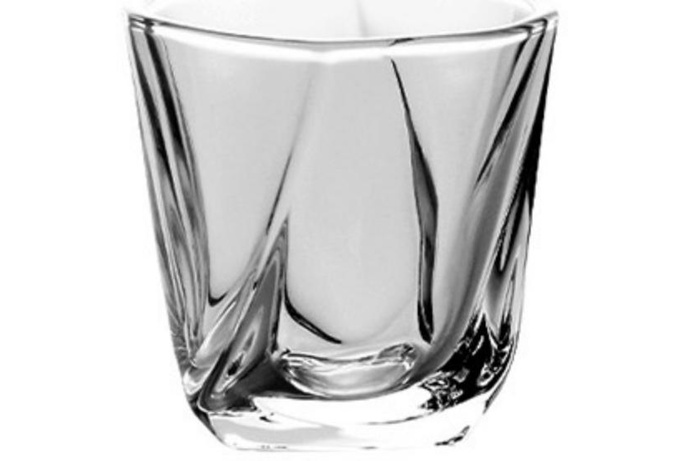
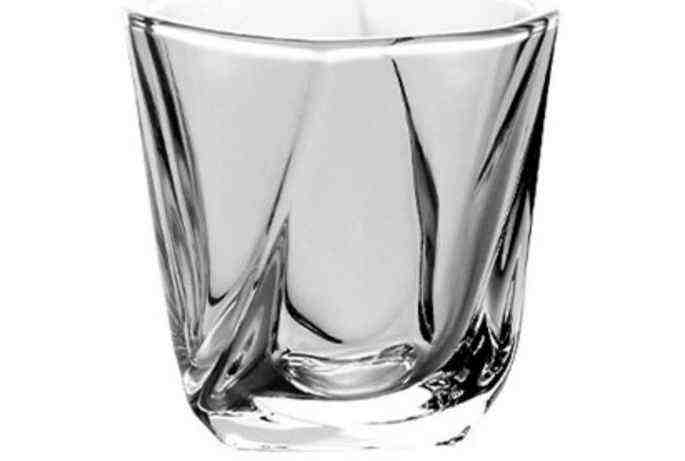
A

diff --git a/products_data.js b/products_data.js
@@ -5908,6 +5908,356 @@ const PRODUCTS = [
     "department": "Glassware",
     "moq": 4,
     "status": "In Stock"
+  },
+  {
+    "code": "SMTC277",
+    "desc": "SHINEMAX TEA MUG 140ML COLOR BOX PACKING 12 SET IN CTN",
+    "price": "178.0",
+    "unit": "FOR 6 PCS",
+    "category": "TEA MUG",
+    "department": "Glassware",
+    "moq": 4,
+    "status": "ADV BOOK"
+  },
+  {
+    "code": "SMP021A-L6",
+    "desc": "SHINEMAX SNACK PLATES 6 PCS GIFT BOX PACKING 8 SET IN CTN",
+    "price": "320.0",
+    "unit": "FOR 6 PCS",
+    "category": "PLATES",
+    "department": "Glassware",
+    "moq": 4,
+    "status": "ADV BOOK"
+  },
+  {
+    "code": "SMP021B-L6",
+    "desc": "SHINEMAX SNACK PLATES 6 PCS GIFT BOX PACKING 8 SET IN CTN",
+    "price": "320.0",
+    "unit": "FOR 6 PCS",
+    "category": "PLATES",
+    "department": "Glassware",
+    "moq": 4,
+    "status": "ADV BOOK"
+  },
+  {
+    "code": "SMP021D-L6",
+    "desc": "SHINEMAX SNACK PLATES 6 PCS GIFT BOX PACKING 8 SET IN CTN",
+    "price": "320.0",
+    "unit": "FOR 6 PCS",
+    "category": "PLATES",
+    "department": "Glassware",
+    "moq": 4,
+    "status": "ADV BOOK"
+  },
+  {
+    "code": "LXY4012",
+    "desc": "LANG XU PLAZA WATER GLASS 6 PCS COLOR BOX PACKING 12 SET CTN",
+    "price": "300.0",
+    "unit": "FOR 6 PCS",
+    "category": "WATER GLASS",
+    "department": "Glassware",
+    "moq": 4,
+    "status": "ADV BOOK"
+  },
+  {
+    "code": "LXY4008-1",
+    "desc": "LANGXU PLAZA WHISKEY GLASS 260 ML 6 PC COL BOX 12 SET CTN",
+    "price": "300.0",
+    "unit": "FOR 6PCS",
+    "category": "WHISKEY GLASS",
+    "department": "Glassware",
+    "moq": 4,
+    "status": "ADV BOOK"
+  },
+  {
+    "code": "SMWB1031-1000",
+    "desc": "SHINEMAX BOROSILICATE GLASS WATER BOTTLE 1000 ML COL BOX 24 PCS CTN",
+    "price": "230.0",
+    "unit": "FOR 1 PCS",
+    "category": "GLASS BOTTLES",
+    "department": "Glassware",
+    "moq": 6,
+    "status": "ADV BOOK"
+  },
+  {
+    "code": "SMWB1036-1000",
+    "desc": "SHINEMAX GLASS BOTTLE PUSH CAP 1000 ML COLOR BOX 30 PCS CTN",
+    "price": "180.0",
+    "unit": "FOR 1 PCS",
+    "category": "GLASS BOTTLES",
+    "department": "Glassware",
+    "moq": 12,
+    "status": "ADV BOOK"
+  },
+  {
+    "code": "SMBC20-L1",
+    "desc": "SHINE MAX GLASS SIPPER WOODEN LID 540 ML COL BOX 48 PC CTN",
+    "price": "110.0",
+    "unit": "FOR 1PCS",
+    "category": "SIPPER",
+    "department": "Glassware",
+    "moq": 12,
+    "status": "ADV BOOK"
+  },
+  {
+    "code": "KJG061A",
+    "desc": "KARBON JUG 500 ML COLOR BOX PACKING 24 SET CTN",
+    "price": "90.0",
+    "unit": "FOR 1 PCS",
+    "category": "GLASS JUG",
+    "department": "Glassware",
+    "moq": 12,
+    "status": "ADV BOOK"
+  },
+  {
+    "code": "KJG061B",
+    "desc": "KARBON JUG 500 ML COLOR BOX PACKING 24 SET CTN",
+    "price": "90.0",
+    "unit": "FOR 1 PCS",
+    "category": "GLASS JUG",
+    "department": "Glassware",
+    "moq": 12,
+    "status": "ADV BOOK"
+  },
+  {
+    "code": "KJG062A",
+    "desc": "KARBON JUG 500 ML COLOR BOX PACKING 24 SET CTN",
+    "price": "90.0",
+    "unit": "FOR 1 PCS",
+    "category": "GLASS JUG",
+    "department": "Glassware",
+    "moq": 12,
+    "status": "ADV BOOK"
+  },
+  {
+    "code": "KJG062B",
+    "desc": "KARBON JUG 500 ML COLOR BOX PACKING 24 SET CTN",
+    "price": "90.0",
+    "unit": "FOR 1 PCS",
+    "category": "GLASS JUG",
+    "department": "Glassware",
+    "moq": 12,
+    "status": "ADV BOOK"
+  },
+  {
+    "code": "SMBC18-L1",
+    "desc": "SHINE MAX GLASS SIPPER 380 ML - COL BOX-72 PCS CTN",
+    "price": "100.0",
+    "unit": "FOR 1PCS",
+    "category": "SIPPER",
+    "department": "Glassware",
+    "moq": 12,
+    "status": "ADV BOOK"
+  },
+  {
+    "code": "SMTC247-2A",
+    "desc": "SHINEMAX SMALL TEA MUG 90ML COLOR BOX-24 SETS IN CTN",
+    "price": "130.0",
+    "unit": "FOR 6PCS",
+    "category": "TEA MUG",
+    "department": "Glassware",
+    "moq": 12,
+    "status": "ADV BOOK"
+  },
+  {
+    "code": "SMTC247-2B",
+    "desc": "SHINEMAX SMALL TEA MUG 90ML COLOR BOX-24 SETS IN CTN",
+    "price": "130.0",
+    "unit": "FOR 6PCS",
+    "category": "TEA MUG",
+    "department": "Glassware",
+    "moq": 12,
+    "status": "ADV BOOK"
+  },
+  {
+    "code": "SMTC247-2C",
+    "desc": "SHINEMAX SMALL TEA MUG 90ML COLOR BOX-24 SETS IN CTN",
+    "price": "130.0",
+    "unit": "FOR 6PCS",
+    "category": "TEA MUG",
+    "department": "Glassware",
+    "moq": 12,
+    "status": "ADV BOOK"
+  },
+  {
+    "code": "SMBB02-3600-BE",
+    "desc": "SHINE MAX DISPENSER PRINTED 3600 ML WITH STAND 12 SET CTN",
+    "price": "750.0",
+    "unit": "FOR 1 PCS",
+    "category": "DISPENSER",
+    "department": "Glassware",
+    "moq": 4,
+    "status": "ADV BOOK"
+  },
+  {
+    "code": "SMBC47",
+    "desc": "SHINEMAX DOUBLE WALL MILK MUG 400 ML COL BOX 60 PCS CTN",
+    "price": "130.0",
+    "unit": "FOR 1 PCS",
+    "category": "BEER MUG",
+    "department": "Glassware",
+    "moq": 12,
+    "status": "ADV BOOK"
+  },
+  {
+    "code": "SMP7201A",
+    "desc": "SHINEMAX LADDU PLATE 200 ML COLOR GIFT BOX 12 SET CTN",
+    "price": "230.0",
+    "unit": "FOR 6 PCS",
+    "category": "PLATE SET",
+    "department": "Glassware",
+    "moq": 4,
+    "status": "ADV BOOK"
+  },
+  {
+    "code": "SMP7201B",
+    "desc": "SHINEMAX LADDU PLATE 200 ML COLOR GIFT BOX 12 SET CTN",
+    "price": "230.0",
+    "unit": "FOR 6 PCS",
+    "category": "PLATE SET",
+    "department": "Glassware",
+    "moq": 4,
+    "status": "ADV BOOK"
+  },
+  {
+    "code": "SMP7201C",
+    "desc": "SHINEMAX LADDU PLATE 200 ML COLOR GIFT BOX 12 SET CTN",
+    "price": "230.0",
+    "unit": "FOR 6 PCS",
+    "category": "PLATE SET",
+    "department": "Glassware",
+    "moq": 4,
+    "status": "ADV BOOK"
+  },
+  {
+    "code": "SMP7201D",
+    "desc": "SHINEMAX LADDU PLATE 200 ML COLOR GIFT BOX 12 SET CTN",
+    "price": "230.0",
+    "unit": "FOR 6 PCS",
+    "category": "PLATE SET",
+    "department": "Glassware",
+    "moq": 4,
+    "status": "ADV BOOK"
+  },
+  {
+    "code": "SMTC237-2",
+    "desc": "SHINE MAX SMALL TEA MUG 93 ML 6 PC COL BOX 24 SET CTN",
+    "price": "145.0",
+    "unit": "FOR 6PCS",
+    "category": "TEA MUG",
+    "department": "Glassware",
+    "moq": 12,
+    "status": "ADV BOOK"
+  },
+  {
+    "code": "SWG0312A-B",
+    "desc": "SHINE MAX COLORED WHISKEY GLASS GIFT BOX 6 SET CTN",
+    "price": "950",
+    "unit": "FOR 6 PCS",
+    "category": "COLORED GLASS",
+    "department": "Glassware",
+    "moq": 6,
+    "status": "ADV BOOK"
+  },
+  {
+    "code": "SWG0312B-B",
+    "desc": "SHINE MAX COLORED WHISKEY GLASS GIFT BOX 6 SET CTN",
+    "price": "950",
+    "unit": "FOR 6 PCS",
+    "category": "COLORED GLASS",
+    "department": "Glassware",
+    "moq": 6,
+    "status": "ADV BOOK"
+  },
+  {
+    "code": "SWG0312C-B",
+    "desc": "SHINE MAX COLORED WHISKEY GLASS GIFT BOX 6 SET CTN",
+    "price": "950",
+    "unit": "FOR 6 PCS",
+    "category": "COLORED GLASS",
+    "department": "Glassware",
+    "moq": 6,
+    "status": "ADV BOOK"
+  },
+  {
+    "code": "SWG0314A-B",
+    "desc": "SHINE MAX COLORED WHISKEY GLASS GIFT BOX 6 SET CTN",
+    "price": "950",
+    "unit": "FOR 6 PCS",
+    "category": "COLORED GLASS",
+    "department": "Glassware",
+    "moq": 6,
+    "status": "ADV BOOK"
+  },
+  {
+    "code": "SWG0314B-B",
+    "desc": "SHINE MAX COLORED WHISKEY GLASS GIFT BOX 6 SET CTN",
+    "price": "950",
+    "unit": "FOR 6 PCS",
+    "category": "COLORED GLASS",
+    "department": "Glassware",
+    "moq": 6,
+    "status": "ADV BOOK"
+  },
+  {
+    "code": "SWG0314C-B",
+    "desc": "SHINE MAX COLORED WHISKEY GLASS GIFT BOX 6 SET CTN",
+    "price": "950",
+    "unit": "FOR 6 PCS",
+    "category": "COLORED GLASS",
+    "department": "Glassware",
+    "moq": 6,
+    "status": "ADV BOOK"
+  },
+  {
+    "code": "SWG0391-BE",
+    "desc": "SHINE MAX COLORED WHISKEY GLASS GIFT BOX 6 SET CTN",
+    "price": "700",
+    "unit": "FOR 6 PCS",
+    "category": "COLORED GLASS",
+    "department": "Glassware",
+    "moq": 6,
+    "status": "ADV BOOK"
+  },
+  {
+    "code": "SWG0391-BT",
+    "desc": "SHINE MAX COLORED WHISKEY GLASS GIFT BOX 6 SET CTN",
+    "price": "700",
+    "unit": "FOR 6 PCS",
+    "category": "COLORED GLASS",
+    "department": "Glassware",
+    "moq": 6,
+    "status": "ADV BOOK"
+  },
+  {
+    "code": "SWG0393-BE",
+    "desc": "SHINE MAX COLORED WHISKEY GLASS GIFT BOX 6 SET CTN",
+    "price": "850",
+    "unit": "FOR 6 PCS",
+    "category": "COLORED GLASS",
+    "department": "Glassware",
+    "moq": 6,
+    "status": "ADV BOOK"
+  },
+  {
+    "code": "SWG0393-BL",
+    "desc": "SHINE MAX COLORED WHISKEY GLASS GIFT BOX 6 SET CTN",
+    "price": "850",
+    "unit": "FOR 6 PCS",
+    "category": "COLORED GLASS",
+    "department": "Glassware",
+    "moq": 6,
+    "status": "ADV BOOK"
+  },
+  {
+    "code": "SWG0393-BT",
+    "desc": "SHINE MAX COLORED WHISKEY GLASS GIFT BOX 6 SET CTN",
+    "price": "850",
+    "unit": "FOR 6 PCS",
+    "category": "COLORED GLASS",
+    "department": "Glassware",
+    "moq": 6,
+    "status": "ADV BOOK"
   }
 ];
 

diff --git a/sw.js b/sw.js
@@ -1,5 +1,5 @@
-const CACHE_NAME = 'empire-catalog-v3.20';
-const IMAGE_CACHE_NAME = 'empire-images-v3.20';
+const CACHE_NAME = 'empire-catalog-v3.21';
+const IMAGE_CACHE_NAME = 'empire-images-v3.21';
 
 const ASSETS_TO_CACHE = [
   './',
